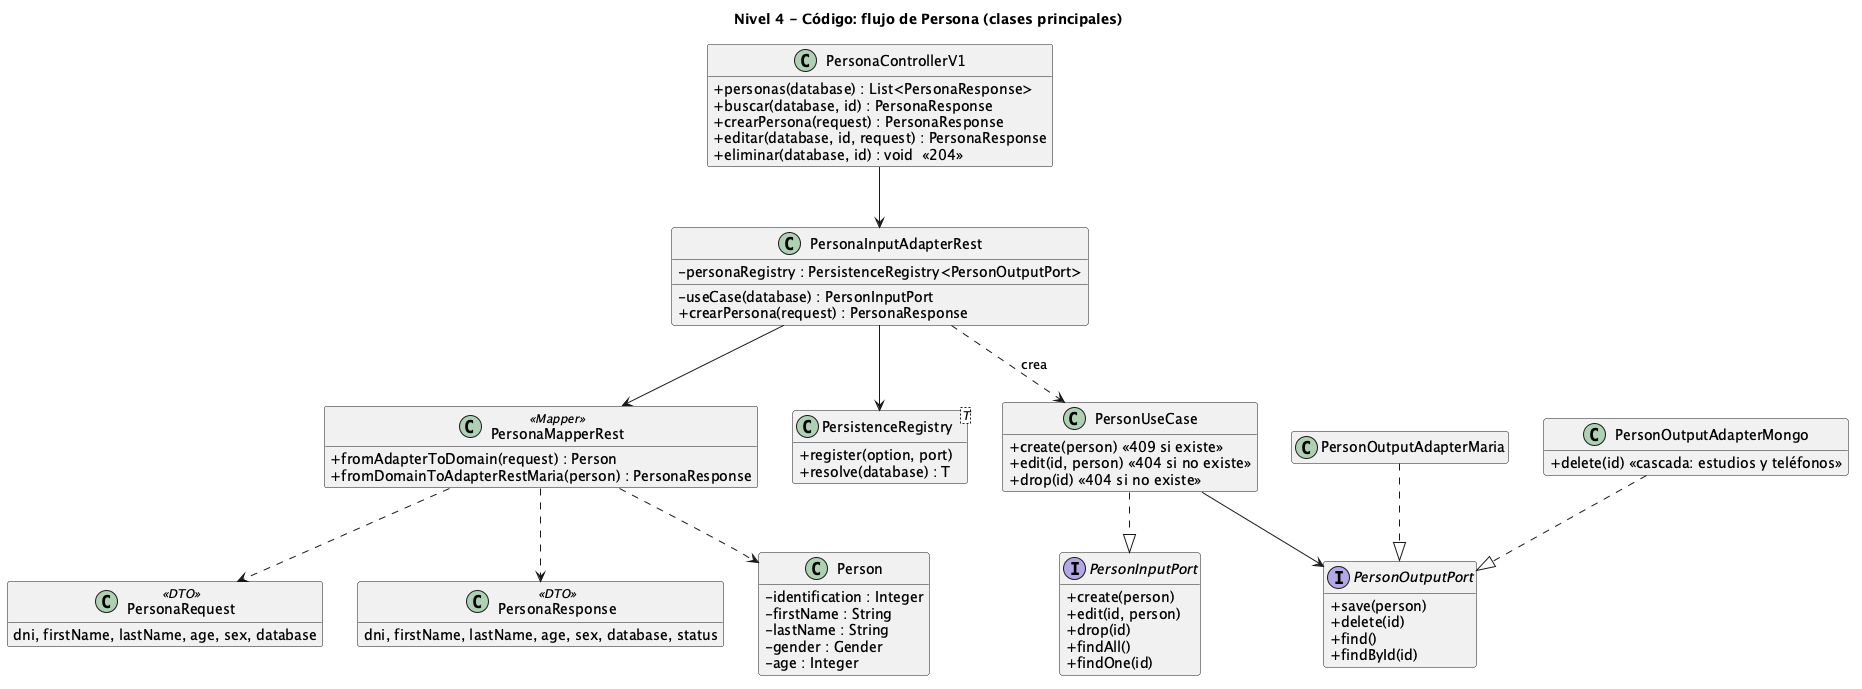
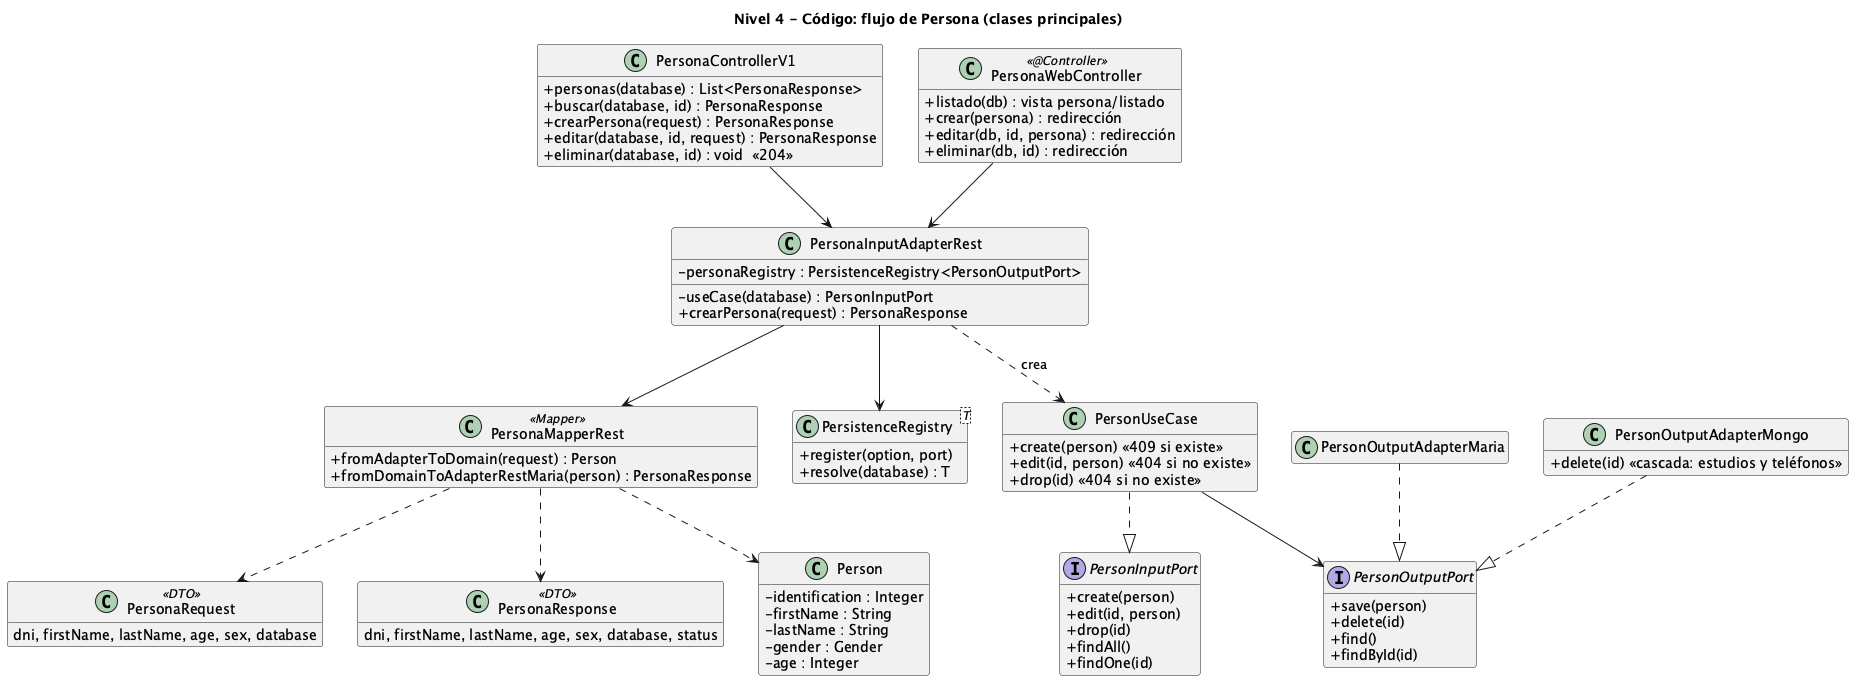
Actualiza diagramas C4 con las pantallas web
Agrega las pantallas web (Thymeleaf) a los diagramas de paisaje, contexto,
contenedores, componentes, código, despliegue y capas. Los diagramas
dinámicos no cambian porque describen el flujo de la API.

Changed region(s): [[0.2803, 0.061, 0.623, 0.2438]]

diff --git a/docs/diagramas/LEEME.md b/docs/diagramas/LEEME.md
@@ -5,12 +5,12 @@ Para regenerar: `plantuml -tsvg -tpng <archivo>.puml` (requiere internet para de
 
 | Archivo | Nivel | Qué muestra |
 |---|---|---|
-| 01_paisaje | Paisaje | Quién usa el sistema y qué sistemas externos intervienen |
-| 02_contexto | 1 · Contexto | Operador de consola, cliente de la API y el sistema |
-| 03_contenedores | 2 · Contenedores | API, CLI, MariaDB, MongoDB y mongo-init dentro de Docker Compose |
-| 04_componentes | 3 · Componentes | Controladores, adaptadores, casos de uso, puertos y adaptadores de salida (hexagonal) |
+| 01_paisaje | Paisaje | Quién usa el sistema (consola, pantallas web, API) y qué sistemas externos intervienen |
+| 02_contexto | 1 · Contexto | Operador de consola, usuario web, cliente de la API y el sistema |
+| 03_contenedores | 2 · Contenedores | API REST con pantallas web, CLI, MariaDB, MongoDB y mongo-init dentro de Docker Compose |
+| 04_componentes | 3 · Componentes | Controladores REST, pantallas web, adaptadores, casos de uso, puertos y adaptadores de salida (hexagonal) |
 | 05_codigo | 4 · Código | Clases principales del flujo de Persona |
 | 06a_dinamico_crear_persona_api | Dinámico | POST /api/v1/persona en MariaDB, con validación de duplicados |
 | 06b_dinamico_eliminar_persona_mongo | Dinámico | DELETE en MongoDB con borrado en cascada de estudios y teléfonos |
-| 07_despliegue | Despliegue | Docker Desktop en macOS, red de Compose, contenedores y volúmenes |
-| 08_arquitectura_capas | Capas | Entrada, núcleo y salida; la regla de dependencia hacia el núcleo |
+| 07_despliegue | Despliegue | Docker Desktop en macOS, red de Compose, contenedores, volúmenes y acceso a las pantallas web |
+| 08_arquitectura_capas | Capas | Entrada (CLI, pantallas web, API REST), núcleo y salida; la regla de dependencia hacia el núcleo |
